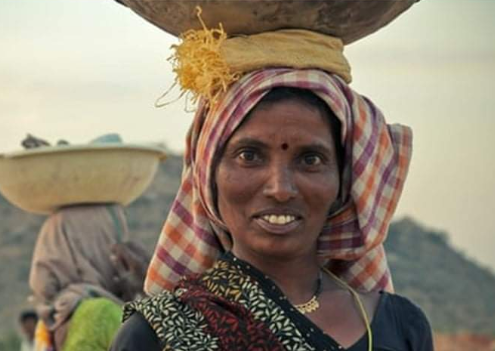
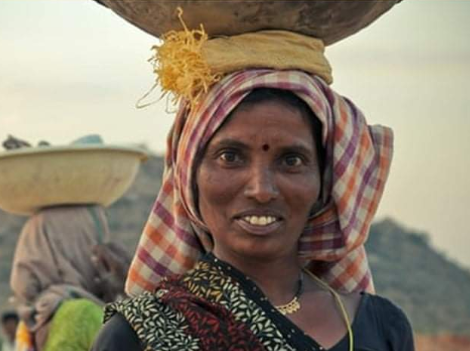
טיפול בגדלי תמונות ותיקוני תחביר

diff --git a/app/src/main/assets/html/day27.html b/app/src/main/assets/html/day27.html
@@ -176,7 +176,7 @@
     <div>
         אחת הדרכים הבטוחות להפחית את הכעס היא לפתח ענווה.
         <b>
-        חשוב לזכור : "לפני שהדיבור יוצא מהפה אנחנו הבעלים שלו, לאחר שהדיבור יצא מהפה הוא הבעלים שלנו".
+        חשוב לזכור: "לפני שהדיבור יוצא מהפה אנחנו הבעלים שלו, לאחר שהדיבור יצא מהפה הוא הבעלים שלנו".
         </b>
 <br>
         הנשמה עוזבת מבחינה חומרית בידיים ריקות ומבחינה רוחנית עם המעשים הטובים והרעים.

diff --git a/app/src/main/assets/html/day17.html b/app/src/main/assets/html/day17.html
@@ -11,7 +11,7 @@
     <div class="container-image">
         <div class="bg-image">
             <img  src="App_Pic/day17.png" alt="blurbackground"  /></div>
-        <div class="header circular--landscape">
+        <div class="header circular--portrait">
             <img   src="App_Pic/day17.png" alt="dynamicpic" /></div>
     </div>
 </div>

diff --git a/app/src/main/assets/html/day10.html b/app/src/main/assets/html/day10.html
@@ -43,7 +43,7 @@
 <p>
     המחשבה היא הזרע, המעשה הוא העץ.
     <br>
-    גם בניין גבוהה מתחיל במחשבה.
+    גם בניין גבוה מתחיל במחשבה.
     <br>
     "סוף מעשה במחשבה תחילה".
 
